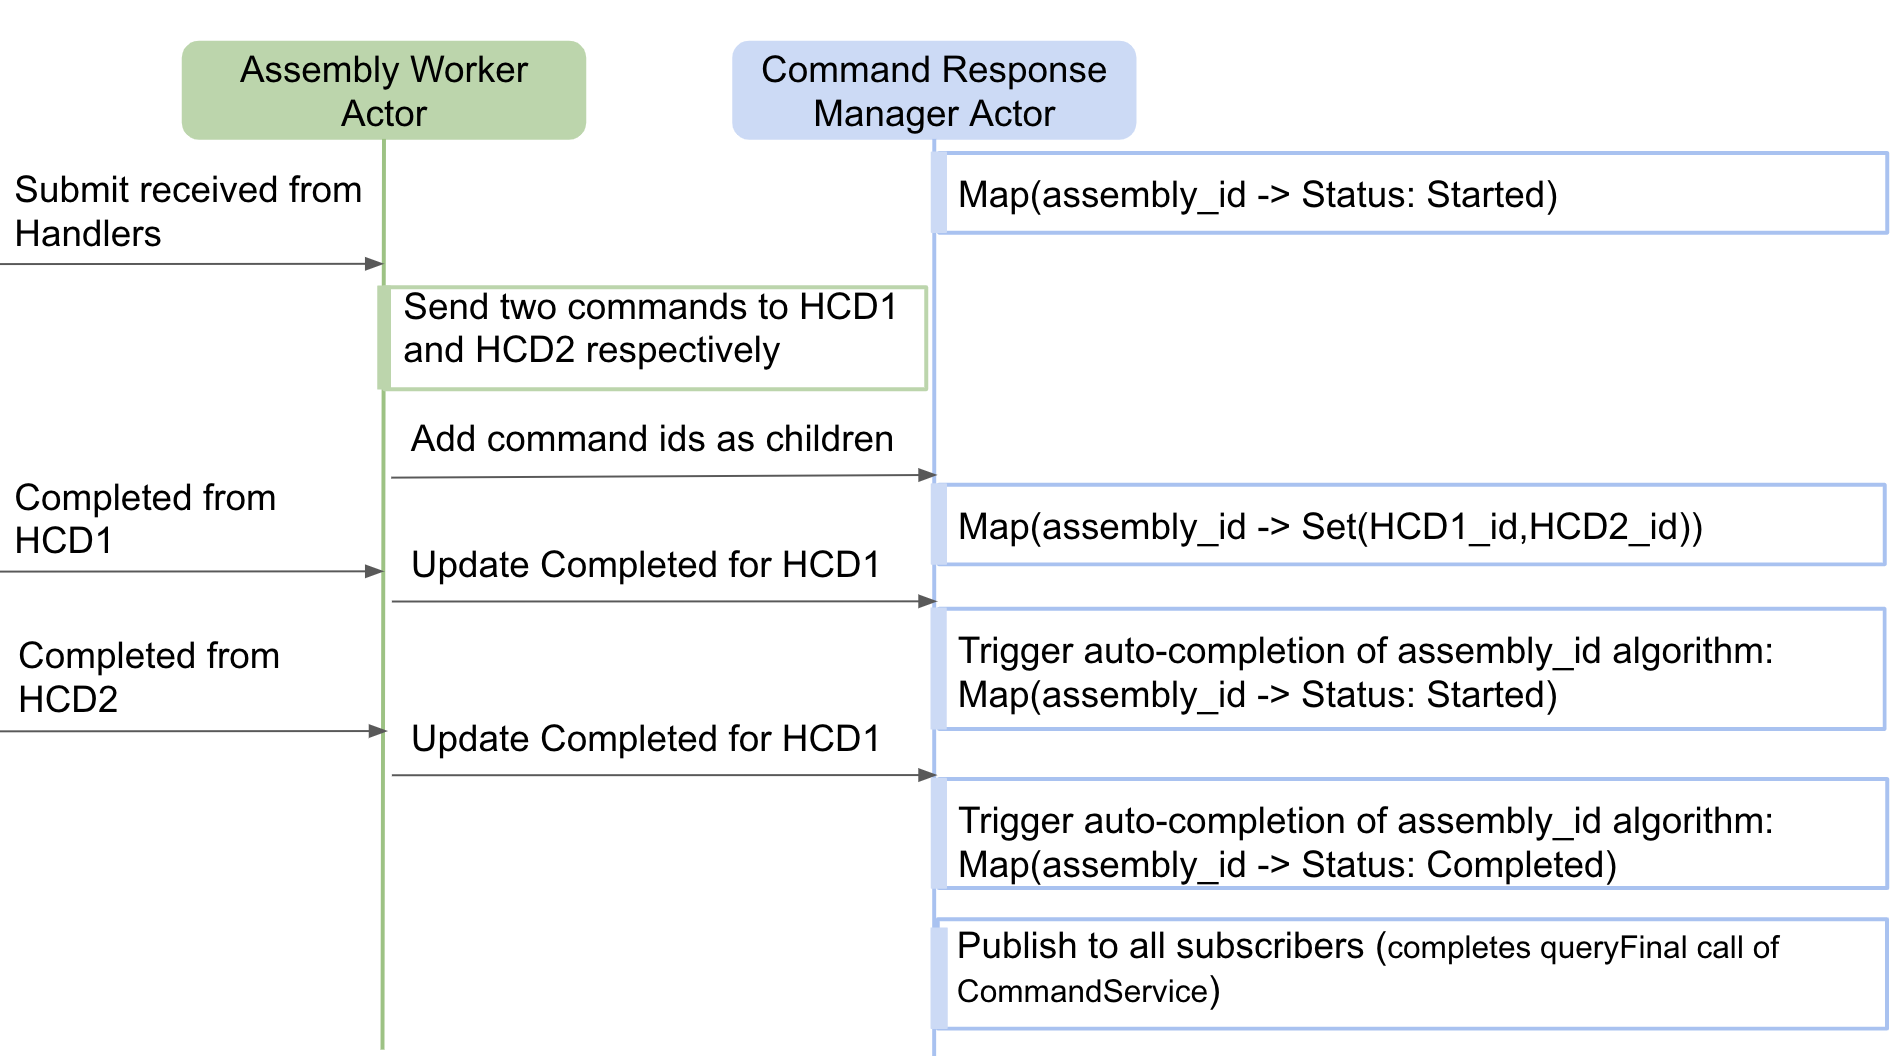
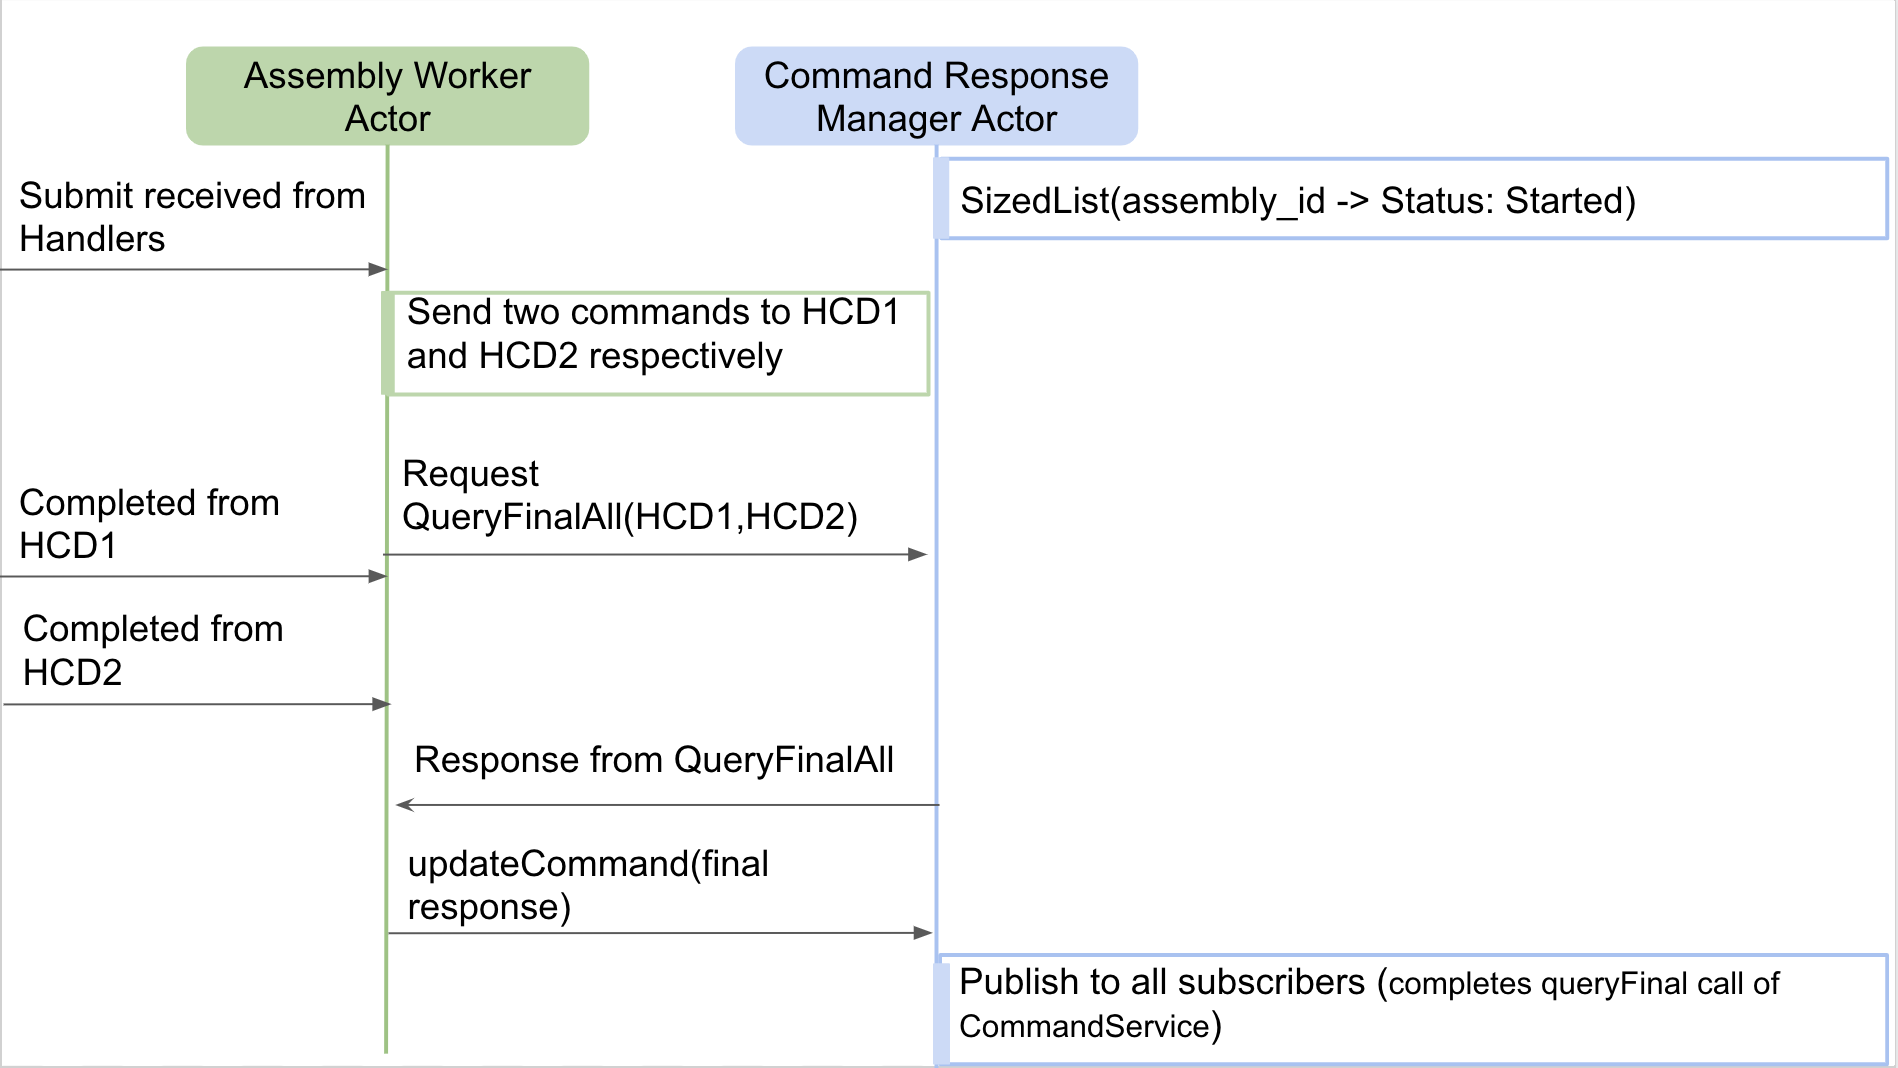
#000 : Saloni : update crm image

Changed region(s): [[0.0, 0.0, 1.0, 1.0], [0.4678, 0.3438, 0.4989, 0.375]]

diff --git a/docs/src/main/technical/command/command.md b/docs/src/main/technical/command/command.md
@@ -65,6 +65,8 @@ amount of time. If there is no entry in the CRM for a provided runId, the CRM re
 The CRM also provides a utility method called `queryFinalAll`. This is just a wrapper around the Future.sequence call that allows components sending
 sub-commands to wait for all the sub-commands to complete.
 
+![crm](media/crm.png)
+
 The Assembly worker can communicate with `CommandResponseManagerActor` using [CommandResponseManager]($github.base_url$/csw-command/csw-command-client/src/main/scala/csw/command/client/CommandResponseManager.scala)
 coming via [CswContext]($github.base_url$/csw-framework/src/main/scala/csw/framework/models/CswContext.scala#L43).
 
